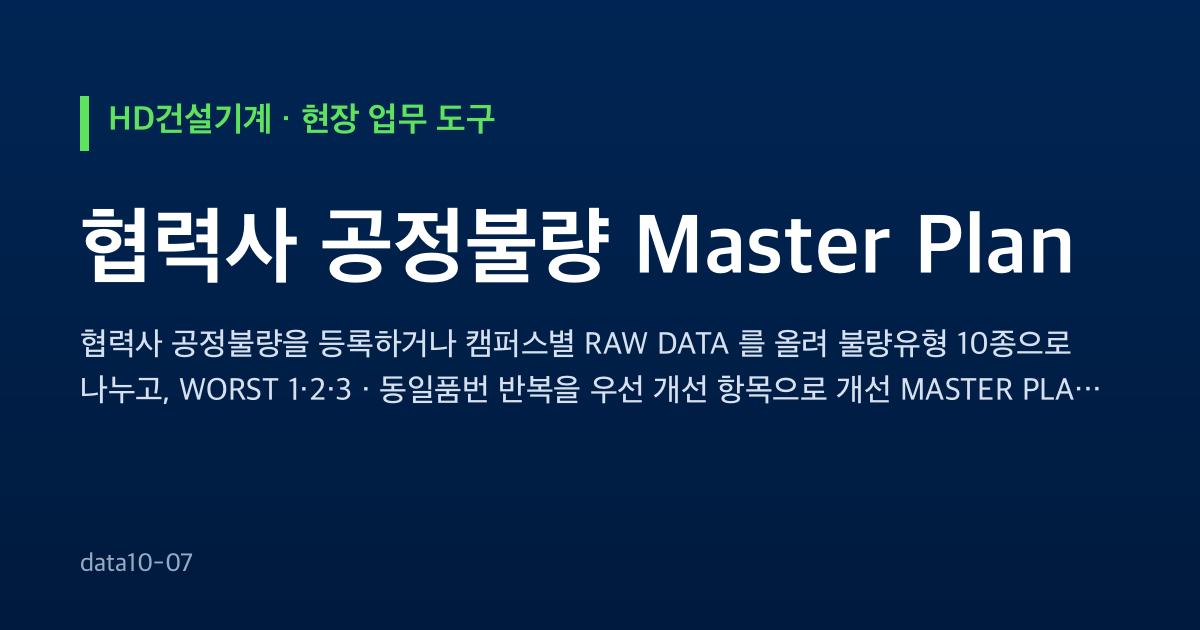
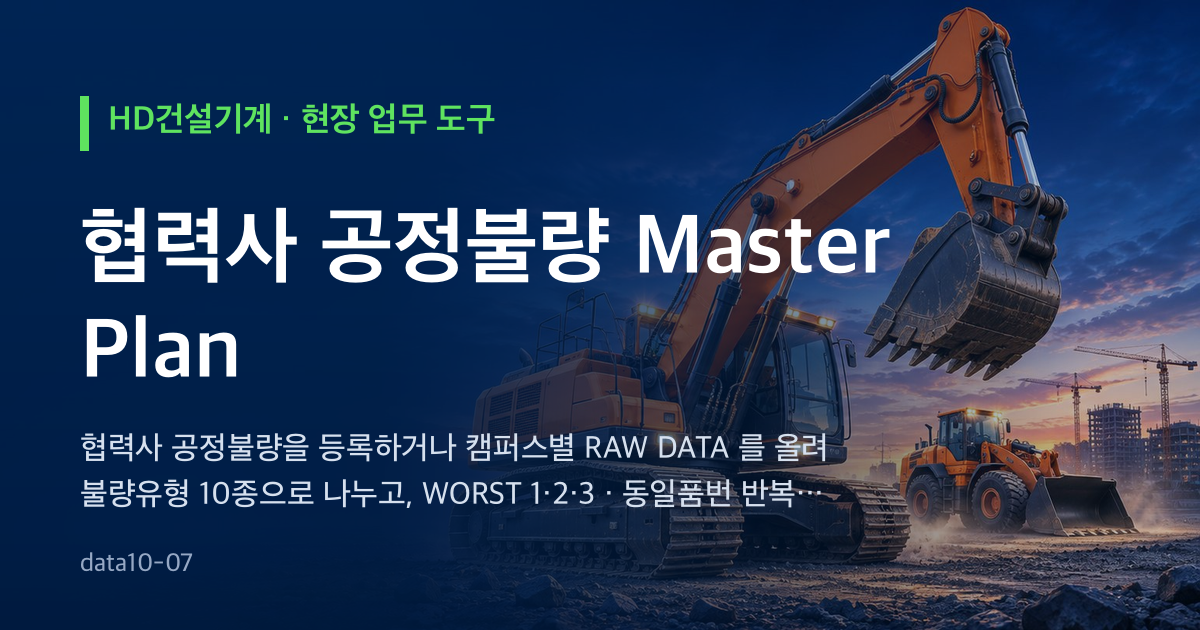
개발 자료 전체 공개 — 개발일지 · 기획서 원문 · 시험 · SQL · 스크립트 · README (수강생 내려받기용)

diff --git a/index.html b/index.html
@@ -12,9 +12,16 @@
   <meta property="og:description" content="협력사 공정불량을 등록하거나 캠퍼스별 RAW DATA 를 올려 불량유형 10종으로 나누고, WORST 1·2·3 · 동일품번 반복을 우선 개선 항목으로 개선 MASTER PLAN 초안과 간트를 만들어 협력사와 Excel · 메일로 진행사항을 주고받는 도구입니다.">
   <meta property="og:url" content="https://data10-07.jobability.co.kr/">
   <meta property="og:image" content="https://data10-07.jobability.co.kr/og-image.png">
+  <meta property="og:image:secure_url" content="https://data10-07.jobability.co.kr/og-image.png">
+  <meta property="og:image:type" content="image/png">
   <meta property="og:image:width" content="1200">
   <meta property="og:image:height" content="630">
+  <meta property="og:image:alt" content="HD건설기계 · 협력사 공정불량 Master Plan">
+  <meta property="og:locale" content="ko_KR">
   <meta name="twitter:card" content="summary_large_image">
+  <meta name="twitter:title" content="HD건설기계 · 협력사 공정불량 Master Plan">
+  <meta name="twitter:description" content="협력사 공정불량을 등록하거나 캠퍼스별 RAW DATA 를 올려 불량유형 10종으로 나누고, WORST 1·2·3 · 동일품번 반복을 우선 개선 항목으로 개선 MASTER PLAN 초안과 간트를 만들어 협력사와 Excel · 메일로 진행사항을 주고받는 도구입니다.">
+  <meta name="twitter:image" content="https://data10-07.jobability.co.kr/og-image.png">
   <!-- /seo-kit -->
   <meta name="description" content="협력사 공정불량을 등록·분류·분석해 불량유형 WORST·동일품번 기준으로 개선 MASTER PLAN 초안을 만들고, 협력사 회신 Excel 로 진행사항을 갱신하는 사내망용 브라우저 도구">
   <meta name="robots" content="noindex">
@@ -30,11 +37,11 @@
        탭 전환·포커스로는 옮기지 않는다(입력 유실). ETag 는 Cloudflare 가 지워서 쓸 수 없다. 원본: dreamit-1000/scripts/fresh-guard/guard.html
        data10-07: file:// 로 열면(사내 PC 의 HTML 한 파일) 아무것도 하지 않는다 — file 주소는 fetch 를 못 해 콘솔 오류만 남기 때문(2026-10-27). -->
   <script>(function(){try{var L=location,P='_fg',h=window.history,q=L.search;if(L.protocol==='file:')return;if(/[?&]_fg=/.test(q)&&h&&h.replaceState){q=q.replace(/([?&])_fg=[^&]*&?/,'$1').replace(/[?&]$/,'');h.replaceState(h.state,'',L.pathname+q+L.hash);}var d=Date.parse(document.lastModified),u=L.pathname+L.search,k='__fresh_guard',t=0;if(!d||!window.fetch||!window.sessionStorage)return;var g=function(s,v){return s+(s.indexOf('?')<0?'?':'&')+P+'='+v;};var c=function(){var n=Date.now();if(n-t<15000)return;t=n;fetch(g(u,n),{method:'HEAD',cache:'no-store'}).then(function(r){var lm=r.headers.get('last-modified'),f=lm&&Date.parse(lm);if(!f||f<=d+1000)return;if(sessionStorage.getItem(k)===lm)return;sessionStorage.setItem(k,lm);L.replace(g(L.pathname+L.search,f)+L.hash);})['catch'](function(){});};c();var p=h&&h.pushState;if(p)h.pushState=function(){var x=p.apply(this,arguments);c();return x;};addEventListener('hashchange',c);addEventListener('popstate',c);}catch(e){}})();</script>
-  <link rel="stylesheet" href="css/style.css?v=2026-11-11.7">
+  <link rel="stylesheet" href="css/style.css?v=2026-11-11.8">
   <!-- auth-kit: 로그인 전에는 도구 화면을 감춘다(js/auth.js 가 판정 뒤 푼다) -->
   <script>document.documentElement.classList.add('auth-lock')</script>
-  <link rel="stylesheet" href="css/auth.css?v=2026-11-11.7">
-  <link rel="stylesheet" href="css/board.css?v=2026-11-11.7">
+  <link rel="stylesheet" href="css/auth.css?v=2026-11-11.8">
+  <link rel="stylesheet" href="css/board.css?v=2026-11-11.8">
   <!-- /auth-kit -->
 </head>
 <body>
@@ -112,19 +119,19 @@
   </dialog>
 
   <!-- 로컬 파일(file://)로 열어도 돌도록 module 이 아닌 일반 스크립트로 불러옵니다 -->
-  <script src="vendor/xlsx.full.min.js?v=2026-11-11.7"></script>
-  <script src="js/xlsx-out.js?v=2026-11-11.7"></script>
-  <script src="js/logic.js?v=2026-11-11.7"></script>
-  <script src="js/sample-data.js?v=2026-11-11.7"></script>
-  <script src="js/store.js?v=2026-11-11.7"></script>
-  <script src="js/ai-endpoint.js?v=2026-11-11.7"></script>
-  <script src="js/ai-panel.js?v=2026-11-11.7"></script>
-  <script src="js/app.js?v=2026-11-11.7"></script>
+  <script src="vendor/xlsx.full.min.js?v=2026-11-11.8"></script>
+  <script src="js/xlsx-out.js?v=2026-11-11.8"></script>
+  <script src="js/logic.js?v=2026-11-11.8"></script>
+  <script src="js/sample-data.js?v=2026-11-11.8"></script>
+  <script src="js/store.js?v=2026-11-11.8"></script>
+  <script src="js/ai-endpoint.js?v=2026-11-11.8"></script>
+  <script src="js/ai-panel.js?v=2026-11-11.8"></script>
+  <script src="js/app.js?v=2026-11-11.8"></script>
   <!-- auth-kit: 로그인 · 사용 신청 · 승인(정본 data10-00/kit/auth) -->
-  <script src="vendor/supabase.js?v=2026-11-11.7"></script>
-  <script src="js/auth-config.js?v=2026-11-11.7"></script>
-  <script src="js/board.js?v=2026-11-11.7"></script>
-  <script src="js/auth.js?v=2026-11-11.7"></script>
+  <script src="vendor/supabase.js?v=2026-11-11.8"></script>
+  <script src="js/auth-config.js?v=2026-11-11.8"></script>
+  <script src="js/board.js?v=2026-11-11.8"></script>
+  <script src="js/auth.js?v=2026-11-11.8"></script>
   <!-- /auth-kit -->
 </body>
 </html>

diff --git a/dist/data10-07_협력사공정불량_개선관리.html b/dist/data10-07_협력사공정불량_개선관리.html
@@ -1464,7 +1464,7 @@ var o=[];var l=Array.isArray(e);for(f=n.s.c;f<=n.e.c;++f)s[f]=ya(f);for(var c=n.
   'use strict';
   /* 판(版) — index.html 의 ?v= · app.js 의 APP_VERSION 과 같아야 합니다(scripts/bump-version.mjs 로 함께 올림).
      브라우저가 옛 logic.js 와 새 app.js 를 섞어 쓰면 app.js 가 이 값을 보고 계산을 멈춥니다. */
-  var VERSION = '2026-11-11.7';
+  var VERSION = '2026-11-11.8';
 
   function str(v) { return v == null ? '' : String(v).trim(); }
   function uniq(a) { var s = {}, o = []; a.forEach(function (x) { if (!s[x]) { s[x] = 1; o.push(x); } }); return o; }
@@ -3082,7 +3082,7 @@ var o=[];var l=Array.isArray(e);for(f=n.s.c;f<=n.e.c;++f)s[f]=ya(f);for(var c=n.
   var L = window.SQLogic;
   /* 판 맞추기 — 브라우저가 옛 logic.js 와 새 app.js 를 섞어 쓰면(Pages 캐시) 버튼과 결과가 어긋날 수 있어, 섞였으면 계산하지 않고 새로고침을 안내합니다.
      판은 scripts/bump-version.mjs 로 index.html(?v=) · logic.js 와 함께 올립니다. */
-  var APP_VERSION = '2026-11-11.7';
+  var APP_VERSION = '2026-11-11.8';
   if (!L || L.VERSION !== APP_VERSION) {
     var m0 = document.getElementById('main') || document.body;
     m0.innerHTML = '<section class="card" id="versionMismatch"><h1>새 판이 나왔습니다 — 새로고침(Ctrl+F5)해 주세요</h1><p class="alert warn">이 브라우저가 옛 파일과 새 파일을 섞어 불러왔습니다(js/logic.js ' +
@@ -5480,6 +5480,12 @@ window.AUTH_CONFIG = {
       box.classList.toggle('hp-sl-light', !!(sl[i] && sl[i].tone === 'light'));   // 밝은 사진이면 글자를 어둡게
     }
     go(0);
+    // slides[].anim(움직이는 그림 gif) — 먼저 가벼운 사진을 보이고, 화면이 뜬 뒤 받아서 바꿔 끼운다(데이터 절약 · 모션 최소화면 건너뜀)
+    var conn = navigator.connection || {};
+    if (!reduce && !conn.saveData) sl.forEach(function (x, k) {
+      if (!x.anim || !track.children[k]) return;
+      setTimeout(function () { var im = new Image(); im.onload = function () { if (document.body.contains(track)) track.children[k].style.backgroundImage = 'url("' + absUrl(x.anim) + '")'; }; im.src = absUrl(x.anim); }, 1500);
+    });
     box.querySelectorAll('[data-sl]').forEach(function (b) {
       b.onclick = function () {
         var v = b.getAttribute('data-sl');

diff --git a/js/auth.js b/js/auth.js
@@ -233,6 +233,12 @@
       box.classList.toggle('hp-sl-light', !!(sl[i] && sl[i].tone === 'light'));   // 밝은 사진이면 글자를 어둡게
     }
     go(0);
+    // slides[].anim(움직이는 그림 gif) — 먼저 가벼운 사진을 보이고, 화면이 뜬 뒤 받아서 바꿔 끼운다(데이터 절약 · 모션 최소화면 건너뜀)
+    var conn = navigator.connection || {};
+    if (!reduce && !conn.saveData) sl.forEach(function (x, k) {
+      if (!x.anim || !track.children[k]) return;
+      setTimeout(function () { var im = new Image(); im.onload = function () { if (document.body.contains(track)) track.children[k].style.backgroundImage = 'url("' + absUrl(x.anim) + '")'; }; im.src = absUrl(x.anim); }, 1500);
+    });
     box.querySelectorAll('[data-sl]').forEach(function (b) {
       b.onclick = function () {
         var v = b.getAttribute('data-sl');

diff --git a/js/app.js b/js/app.js
@@ -5,7 +5,7 @@
   var L = window.SQLogic;
   /* 판 맞추기 — 브라우저가 옛 logic.js 와 새 app.js 를 섞어 쓰면(Pages 캐시) 버튼과 결과가 어긋날 수 있어, 섞였으면 계산하지 않고 새로고침을 안내합니다.
      판은 scripts/bump-version.mjs 로 index.html(?v=) · logic.js 와 함께 올립니다. */
-  var APP_VERSION = '2026-11-11.7';
+  var APP_VERSION = '2026-11-11.8';
   if (!L || L.VERSION !== APP_VERSION) {
     var m0 = document.getElementById('main') || document.body;
     m0.innerHTML = '<section class="card" id="versionMismatch"><h1>새 판이 나왔습니다 — 새로고침(Ctrl+F5)해 주세요</h1><p class="alert warn">이 브라우저가 옛 파일과 새 파일을 섞어 불러왔습니다(js/logic.js ' +

diff --git a/js/logic.js b/js/logic.js
@@ -12,7 +12,7 @@
   'use strict';
   /* 판(版) — index.html 의 ?v= · app.js 의 APP_VERSION 과 같아야 합니다(scripts/bump-version.mjs 로 함께 올림).
      브라우저가 옛 logic.js 와 새 app.js 를 섞어 쓰면 app.js 가 이 값을 보고 계산을 멈춥니다. */
-  var VERSION = '2026-11-11.7';
+  var VERSION = '2026-11-11.8';
 
   function str(v) { return v == null ? '' : String(v).trim(); }
   function uniq(a) { var s = {}, o = []; a.forEach(function (x) { if (!s[x]) { s[x] = 1; o.push(x); } }); return o; }

diff --git a/docs/평가보고서/data10-07_평가보고서_2026-11-11.md b/docs/평가보고서/data10-07_평가보고서_2026-11-11.md
@@ -2,7 +2,7 @@
 
 - 과제: 협력사 공정불량 Master Plan
 - 요청자: 이준호
-- 점검일: 2026-11-11 (라이브 점검 판 2026-11-11.6, 이 보고서와 함께 올리는 판 2026-11-11.7)
+- 점검일: 2026-11-11 (라이브 점검 판 2026-11-11.6, 이 보고서와 함께 올리는 판 2026-11-11.8)
 - 사이트: https://data10-07.jobability.co.kr/
 - 리포지토리: https://github.com/jungaistar/data10-07
 
@@ -34,7 +34,7 @@
 | 첫 화면 구성 | 충족 | 모양 사진 슬라이드 3장 · 기능 6 · 사용 순서 6 · 실제 화면 있음 |
 | 회사 로고(그림) | 충족 | 머리글 로고 그림 |
 | 기획서 페이지 · 실제 화면 그림 | 충족 | plan.html 200 · screen.png 200 |
-| 공유 미리보기 메타 · 아이콘 | 조치함 | 점검 때 og 메타 · 아이콘이 없어 판 2026-11-11.7 에서 넣음 |
+| 공유 미리보기 메타 · 아이콘 | 조치함 | 점검 때 og 메타 · 아이콘이 없어 넣음 — og:title · description · url · image(1200×630, 첫 화면 사진 바탕) · canonical |
 
 ## 3. 기능과 시험
 
@@ -64,7 +64,7 @@
 | Supabase 설정 파일 | 충족 | auth.sql · board.sql · site.sql · verify.sql |
 | Supabase 연결 안내 | 충족 | supabase/README.md (11단계 · 기대하는 값 · 자주 나는 문제) |
 | 내 깃허브로 옮기기 안내 | 충족 | docs/내_깃허브로_옮기기.md |
-| 기획서(워드) · 개발일지 · 변경 이력 | 충족 | 변경 이력 10건 · 커밋 17개 |
+| 기획서(워드) · 개발일지 · 변경 이력 | 충족 | 변경 이력 11건 · 커밋 18개 |
 | 공개 리포지토리(ZIP 내려받기) | 충족 | github.com/jungaistar/data10-07 |
 | 게시판 · 새 글 알림 · 첫 화면 고르기 | 충족 | 과정용 프로젝트에 SQL 적용 완료(표 · 정책 수 확인) |
 
@@ -75,13 +75,14 @@
 | 항목 | 결과 | 근거 |
 |---|---|---|
 | 내 깃허브에 배포 | 충족 | https://hojun5516-commits.github.io/Quality-Dashboard/ |
-| 최신 판으로 배포 | 미충족 | 배포된 판 2026-11-11.1 (최종 2026-11-11.7) |
+| 최신 판으로 배포 | 미충족 | 배포된 판 2026-11-11.1 (최종 2026-11-11.8) |
 | 게시판 포함 판 | 미충족 | 게시판이 들어가기 전 판 |
 | 내 Supabase 로 연결 | 미충족 | 아직 과정용 프로젝트 주소 그대로 |
 | 비밀 키 노출 없음 | 충족 | 설정 파일에 service_role · secret 키 없음 |
 
 ## 6. 변경 이력
 
+- 2026-11-11 점검 · 평가보고서 (판 2026-11-11.7)
 - 2026-11-11 요청 반영 (판 2026-11-11.6)
 - 2026-11-11 슬라이드 사진 (판 2026-11-11.5)
 - 2026-11-11 첫 화면 모양 고르기 (판 2026-11-11.3)

diff --git a/CHANGELOG.md b/CHANGELOG.md
@@ -2,6 +2,11 @@
 
 버전마다 기획서 워드 판을 `docs/기획서/` 에 남긴다(옛 판을 지우지 않는다).
 
+## 2026-11-11 최종 (판 2026-11-11.8)
+
+- 공유 미리보기 그림(og-image.png)을 첫 화면 사진 바탕으로, og · twitter 메타 보강
+- 평가보고서 갱신 `docs/평가보고서/`
+
 ## 2026-11-11 점검 · 평가보고서 (판 2026-11-11.7)
 
 - 16개 사이트 점검 결과와 평가보고서 `docs/평가보고서/`(md · docx)
